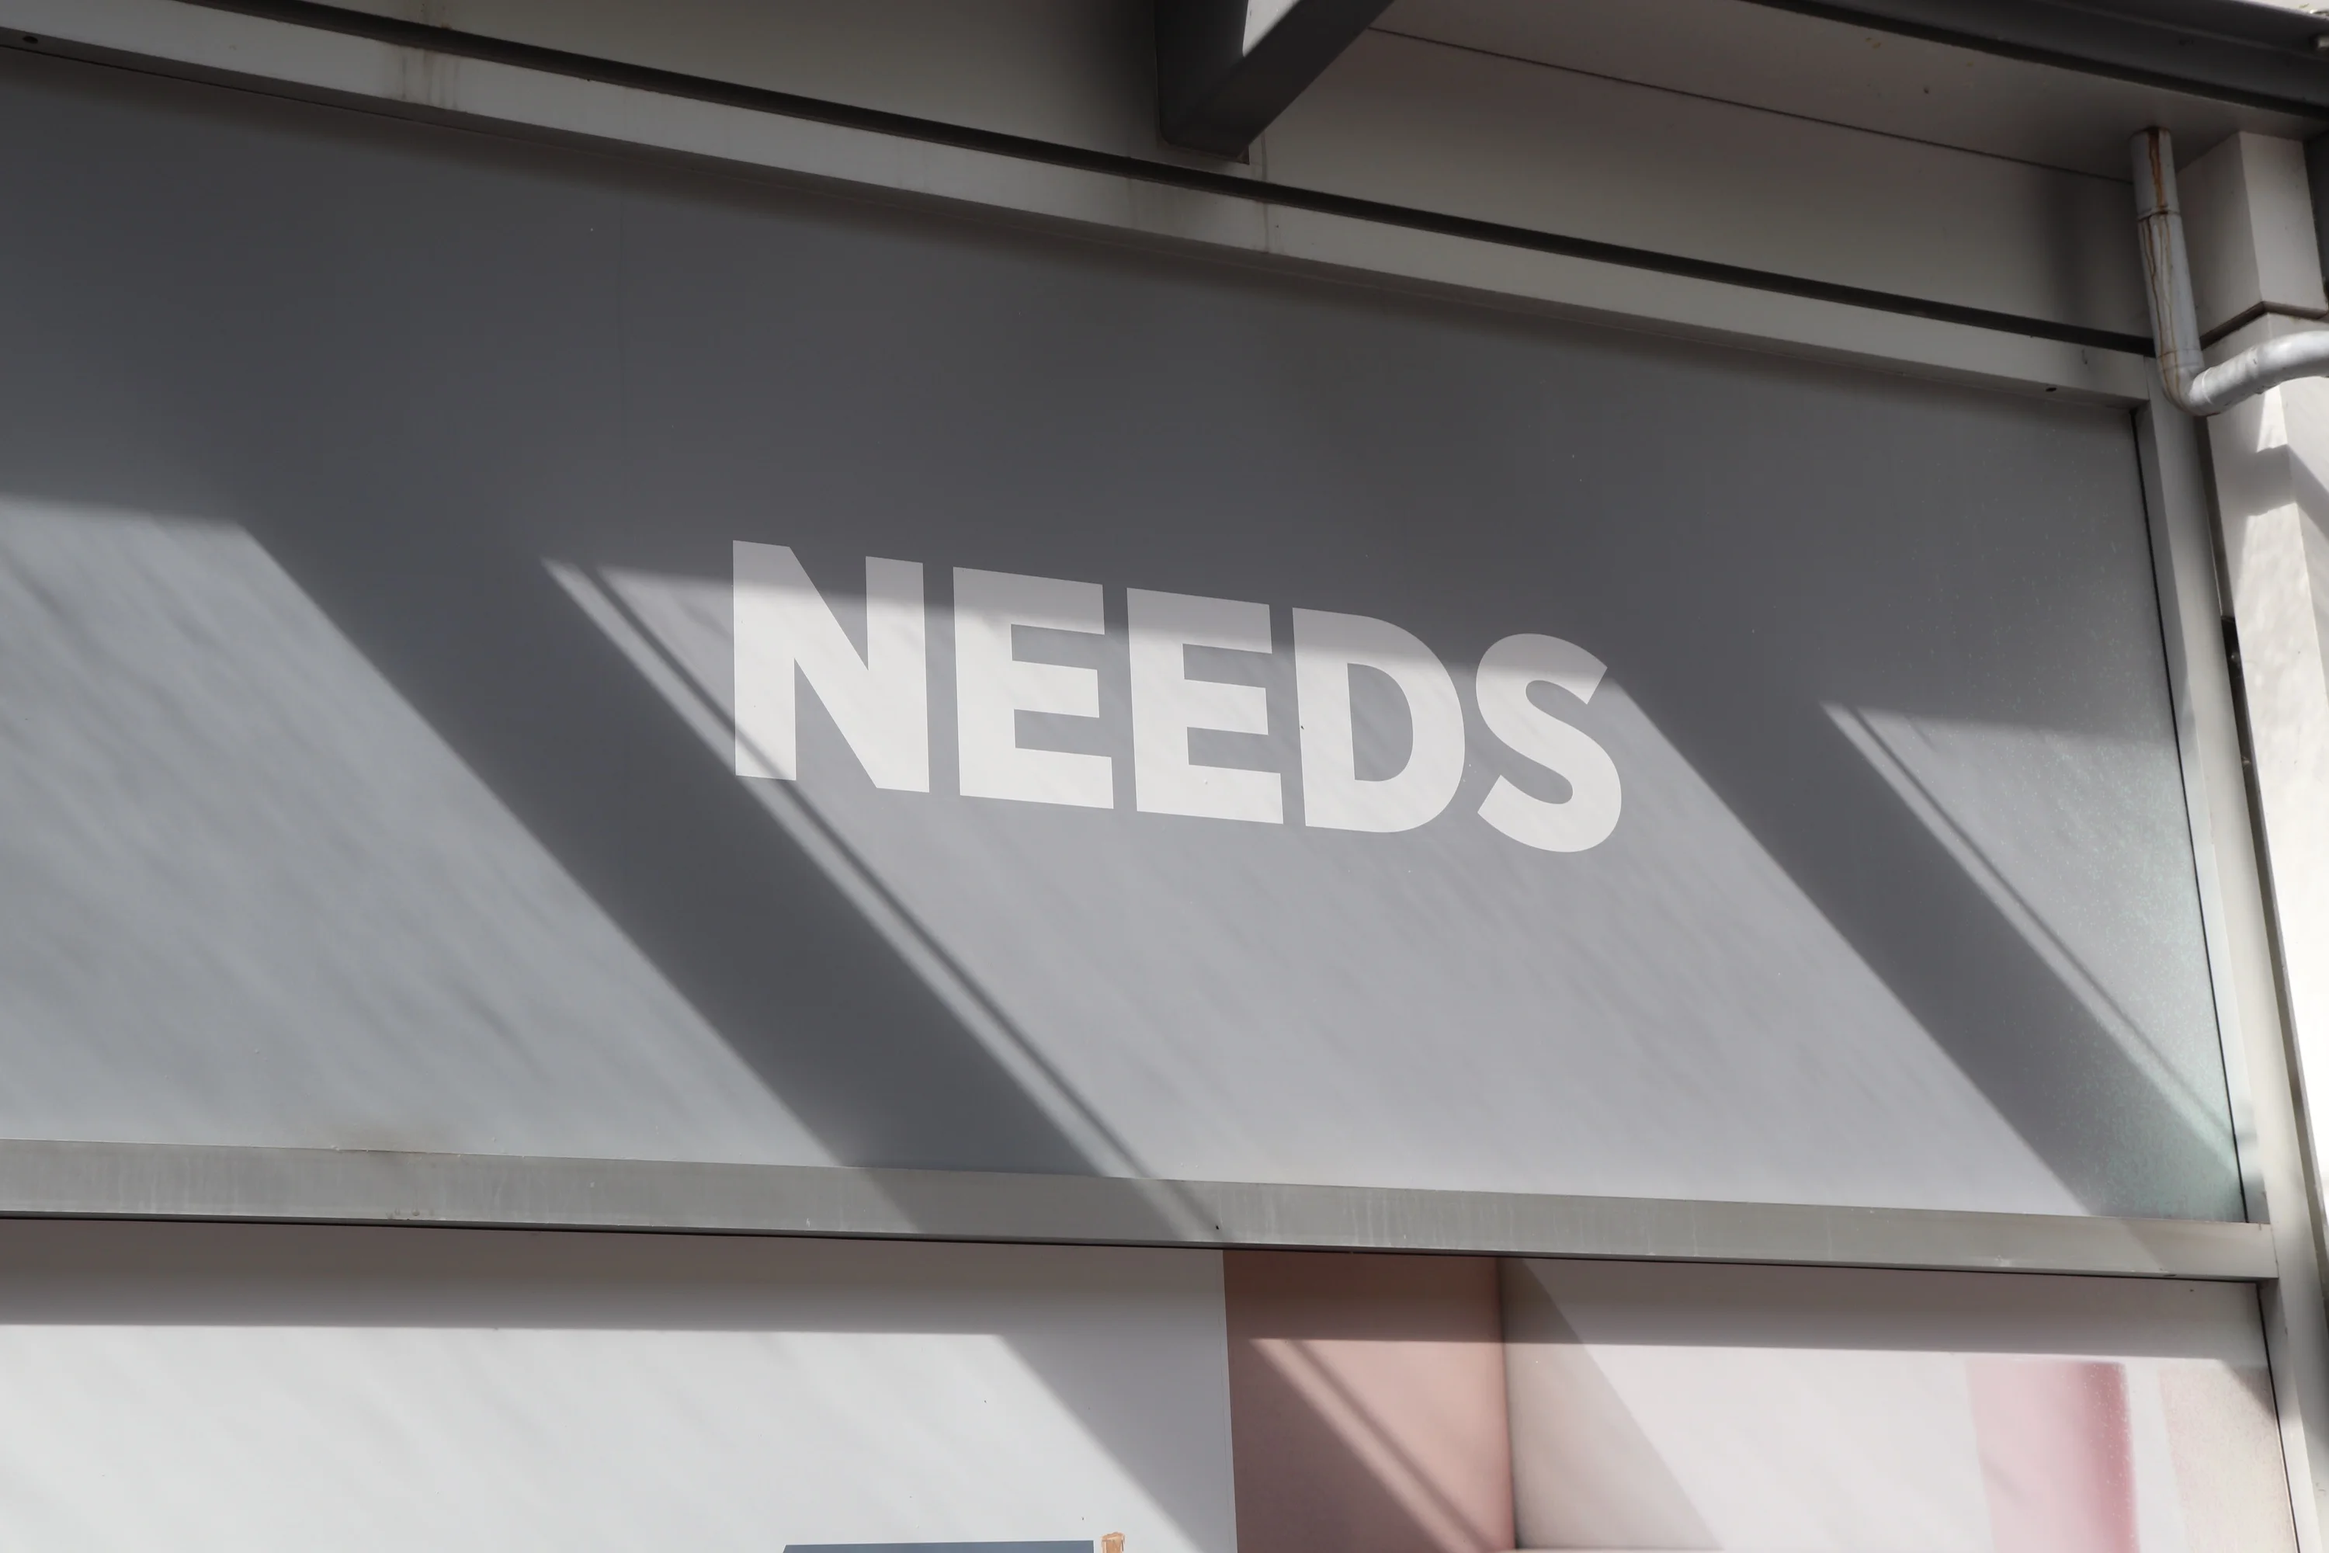
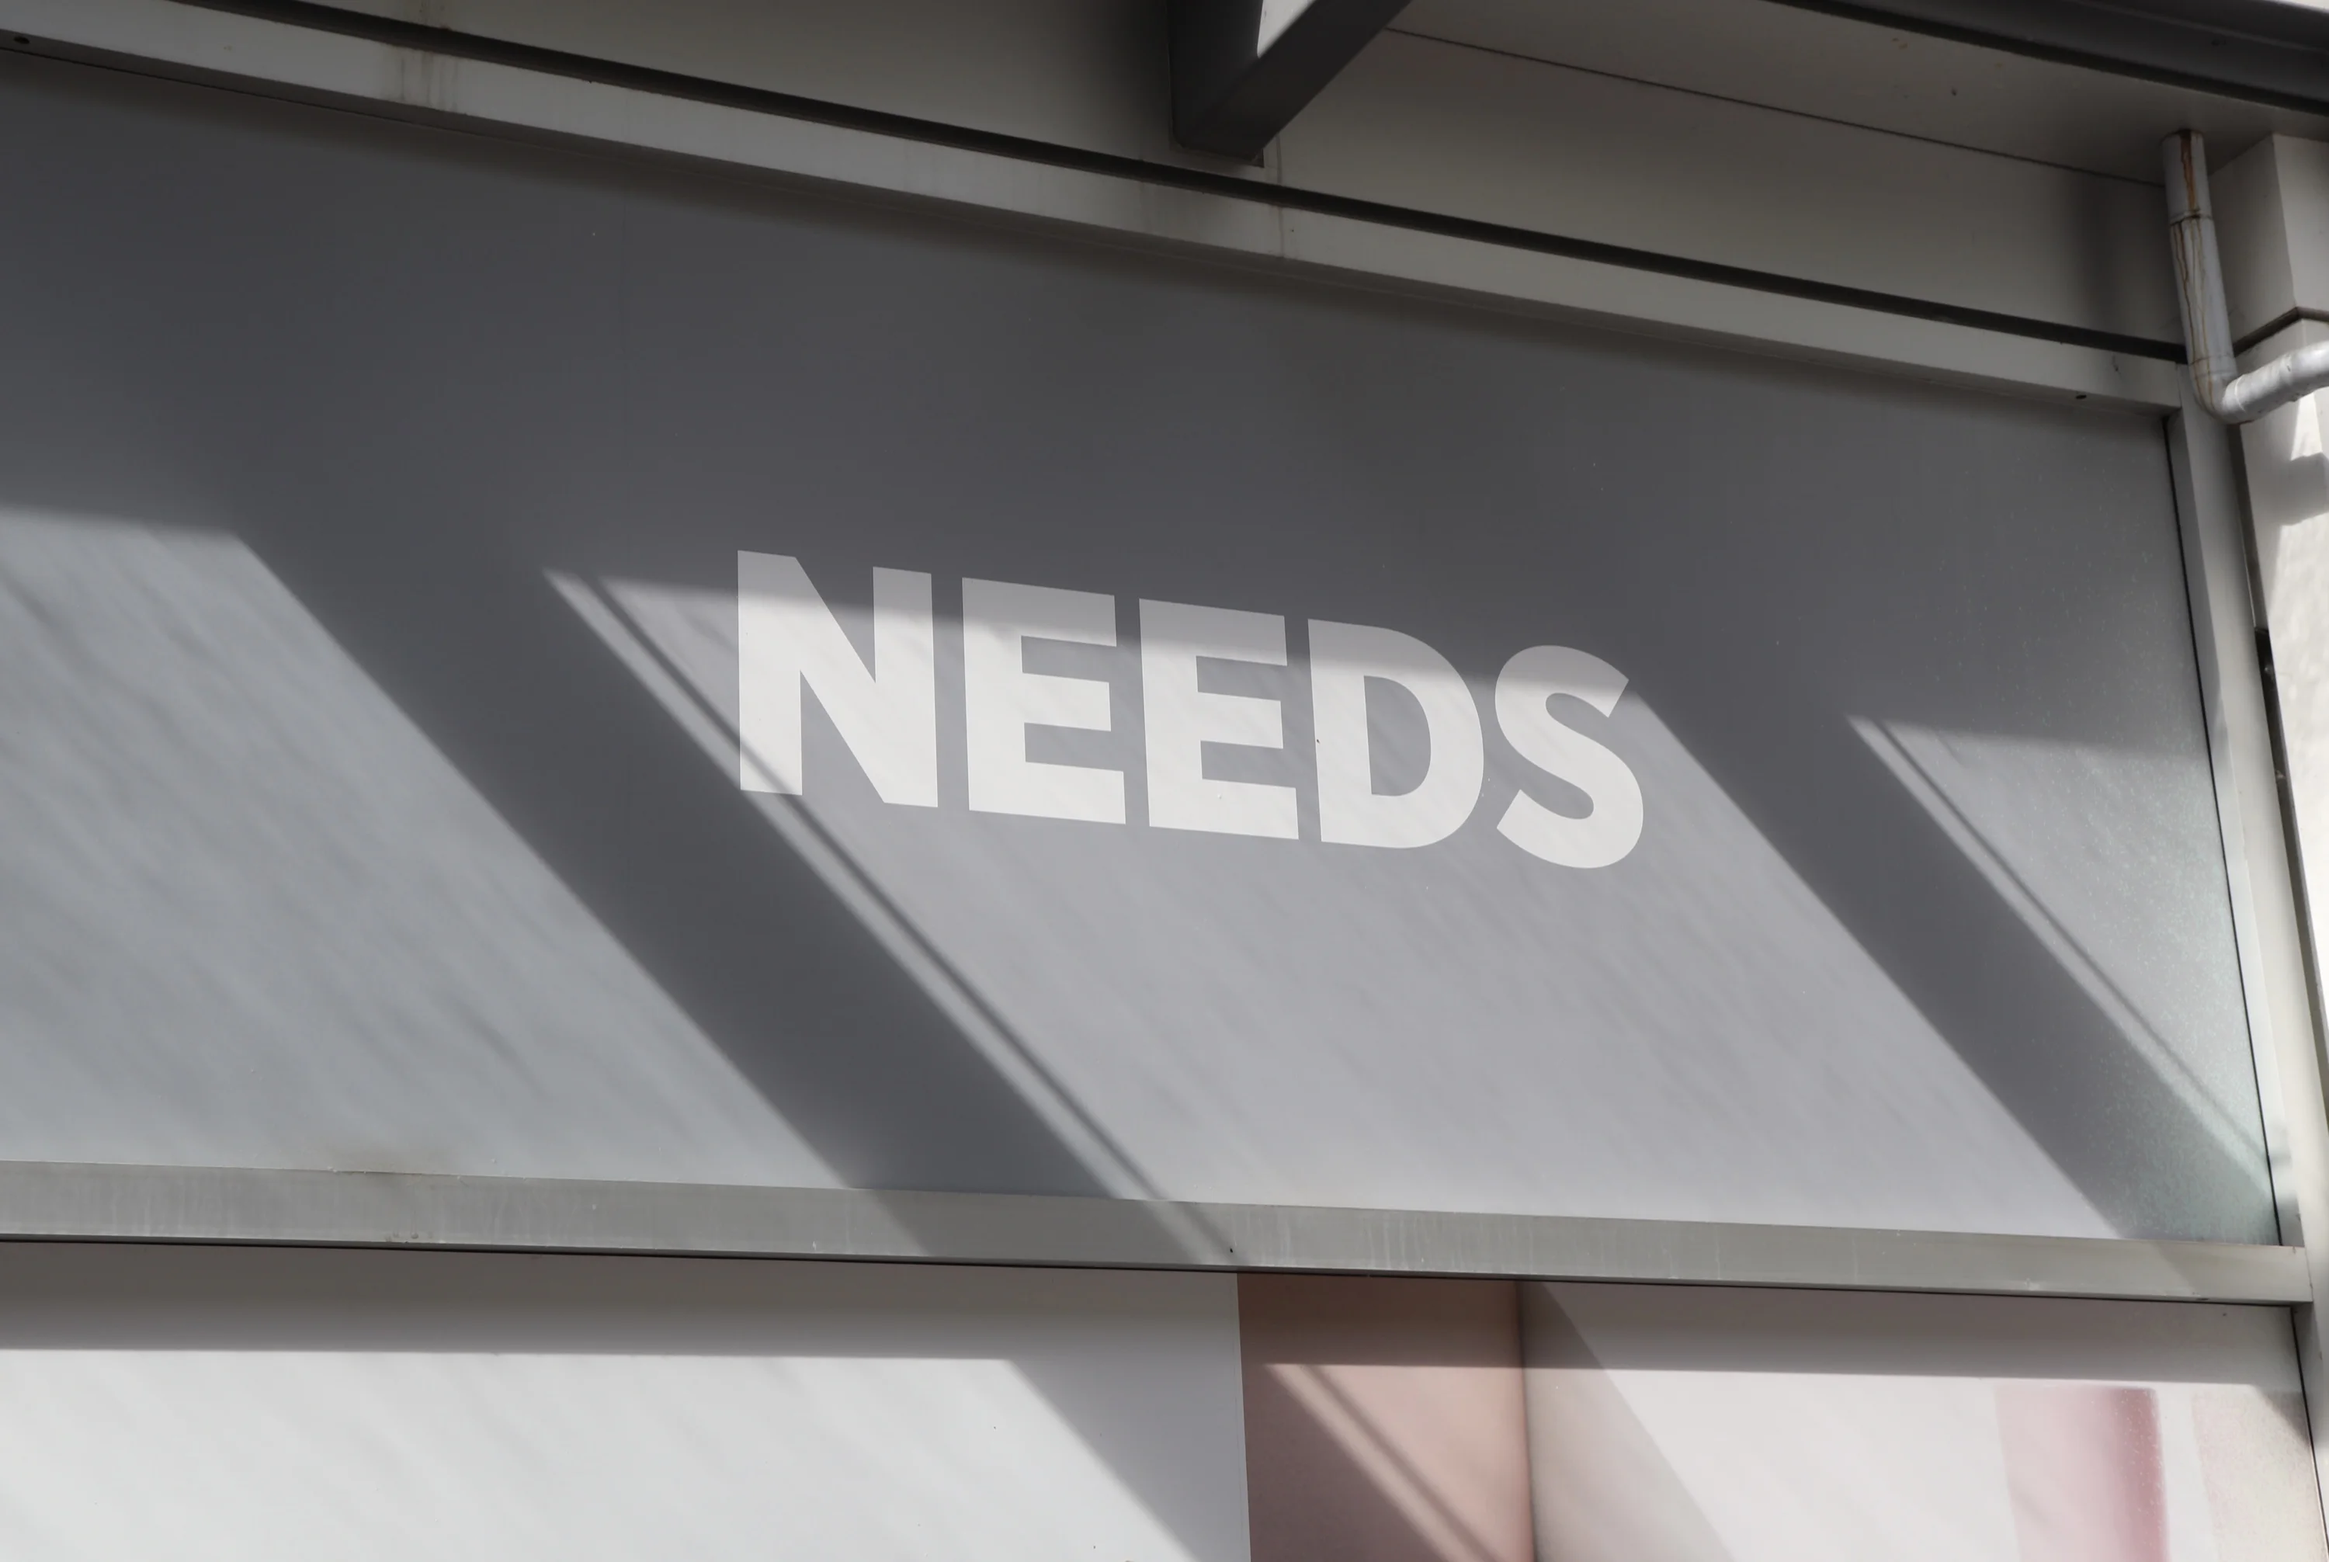
Replace photo 14 with corrected crop

diff --git a/photos/photo-00014/index.html b/photos/photo-00014/index.html
@@ -14,7 +14,7 @@
   <meta property="og:image" content="https://johnbraybrooke.com/images/large/photo-00014.jpg">
   <meta property="og:image:alt" content="The word NEEDS in white capital letters on a grey storefront panel crossed by sharp diagonal shadows.">
   <meta property="og:image:width" content="3000">
-  <meta property="og:image:height" content="2000">
+  <meta property="og:image:height" content="2012">
   <meta name="twitter:card" content="summary_large_image">
   <meta name="twitter:title" content="Photograph by John Braybrooke">
   <meta name="twitter:description" content="White capital letters spelling &#39;NEEDS&#39; sit alone on a broad grey storefront panel. Strong sunlight throws a pattern of long diagonal shadows across the word and wall. Metal framing, a white drainpipe and cropped pale pink-and-white panels edge the otherwise spare composition.">
@@ -23,7 +23,7 @@
   <link rel="icon" href="/favicon-32.png" sizes="32x32" type="image/png">
   <link rel="apple-touch-icon" href="/apple-touch-icon.png">
   <link rel="stylesheet" href="/style.css?v=20">
-  <script type="application/ld+json">{"@context":"https://schema.org","@type":"Photograph","@id":"https://johnbraybrooke.com/photos/photo-00014/","url":"https://johnbraybrooke.com/photos/photo-00014/","name":"Photograph by John Braybrooke","description":"White capital letters spelling 'NEEDS' sit alone on a broad grey storefront panel. Strong sunlight throws a pattern of long diagonal shadows across the word and wall. Metal framing, a white drainpipe and cropped pale pink-and-white panels edge the otherwise spare composition.","dateCreated":"2026-07-21","creditText":"John Braybrooke","creator":{"@id":"https://johnbraybrooke.com/#person"},"copyrightHolder":{"@id":"https://johnbraybrooke.com/#person"},"copyrightNotice":"All rights reserved","image":{"@type":"ImageObject","contentUrl":"https://johnbraybrooke.com/images/large/photo-00014.jpg","url":"https://johnbraybrooke.com/images/large/photo-00014.jpg","caption":"The word NEEDS in white capital letters on a grey storefront panel crossed by sharp diagonal shadows.","width":3000,"height":2000,"creator":{"@id":"https://johnbraybrooke.com/#person"},"copyrightNotice":"All rights reserved"}}</script>
+  <script type="application/ld+json">{"@context":"https://schema.org","@type":"Photograph","@id":"https://johnbraybrooke.com/photos/photo-00014/","url":"https://johnbraybrooke.com/photos/photo-00014/","name":"Photograph by John Braybrooke","description":"White capital letters spelling 'NEEDS' sit alone on a broad grey storefront panel. Strong sunlight throws a pattern of long diagonal shadows across the word and wall. Metal framing, a white drainpipe and cropped pale pink-and-white panels edge the otherwise spare composition.","dateCreated":"2026-07-21","creditText":"John Braybrooke","creator":{"@id":"https://johnbraybrooke.com/#person"},"copyrightHolder":{"@id":"https://johnbraybrooke.com/#person"},"copyrightNotice":"All rights reserved","image":{"@type":"ImageObject","contentUrl":"https://johnbraybrooke.com/images/large/photo-00014.jpg","url":"https://johnbraybrooke.com/images/large/photo-00014.jpg","caption":"The word NEEDS in white capital letters on a grey storefront panel crossed by sharp diagonal shadows.","width":3000,"height":2012,"creator":{"@id":"https://johnbraybrooke.com/#person"},"copyrightNotice":"All rights reserved"}}</script>
 </head>
 <body>
   <main class="site-shell">
@@ -40,7 +40,7 @@
       <figure class="photo-figure">
       <picture>
         <source type="image/webp" srcset="/images/large/small/photo-00014.webp 1600w, /images/large/photo-00014.webp 3000w">
-        <img class="photo-page-image" src="/images/large/photo-00014.jpg" srcset="/images/large/small/photo-00014.jpg 1600w, /images/large/photo-00014.jpg 3000w" sizes="(max-width: 760px) calc(100vw - 2.8rem), min(80vw, 1100px)" alt="The word NEEDS in white capital letters on a grey storefront panel crossed by sharp diagonal shadows." width="3000" height="2000" decoding="async">
+        <img class="photo-page-image" src="/images/large/photo-00014.jpg" srcset="/images/large/small/photo-00014.jpg 1600w, /images/large/photo-00014.jpg 3000w" sizes="(max-width: 760px) calc(100vw - 2.8rem), min(80vw, 1100px)" alt="The word NEEDS in white capital letters on a grey storefront panel crossed by sharp diagonal shadows." width="3000" height="2012" decoding="async">
       </picture>
         <figcaption class="photo-caption">
           <p class="photo-description">White capital letters spelling &#39;NEEDS&#39; sit alone on a broad grey storefront panel. Strong sunlight throws a pattern of long diagonal shadows across the word and wall. Metal framing, a white drainpipe and cropped pale pink-and-white panels edge the otherwise spare composition.</p>
